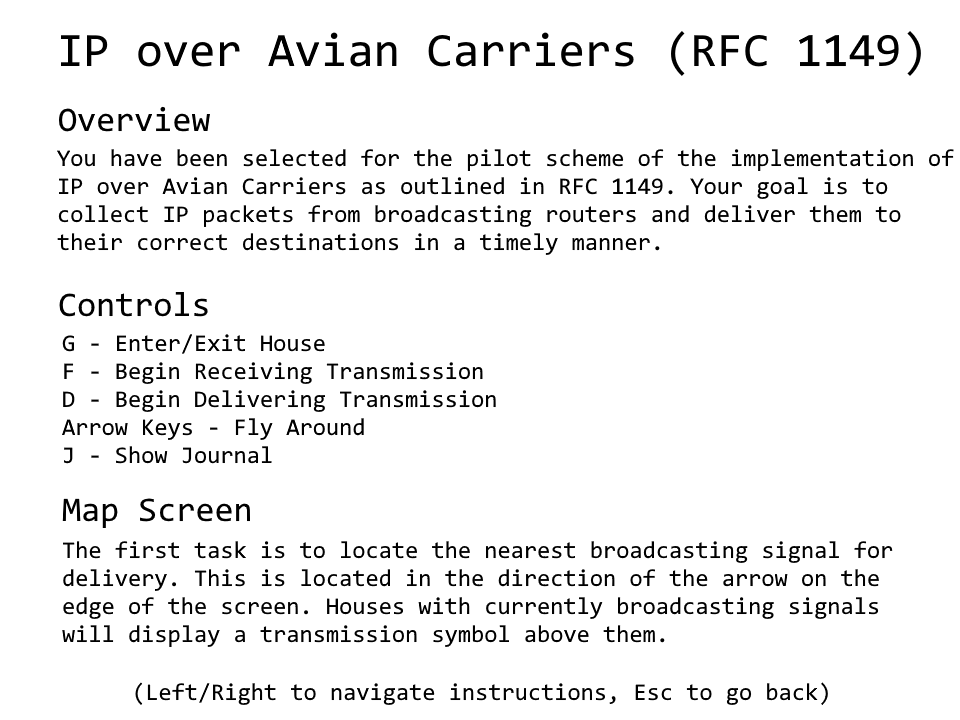
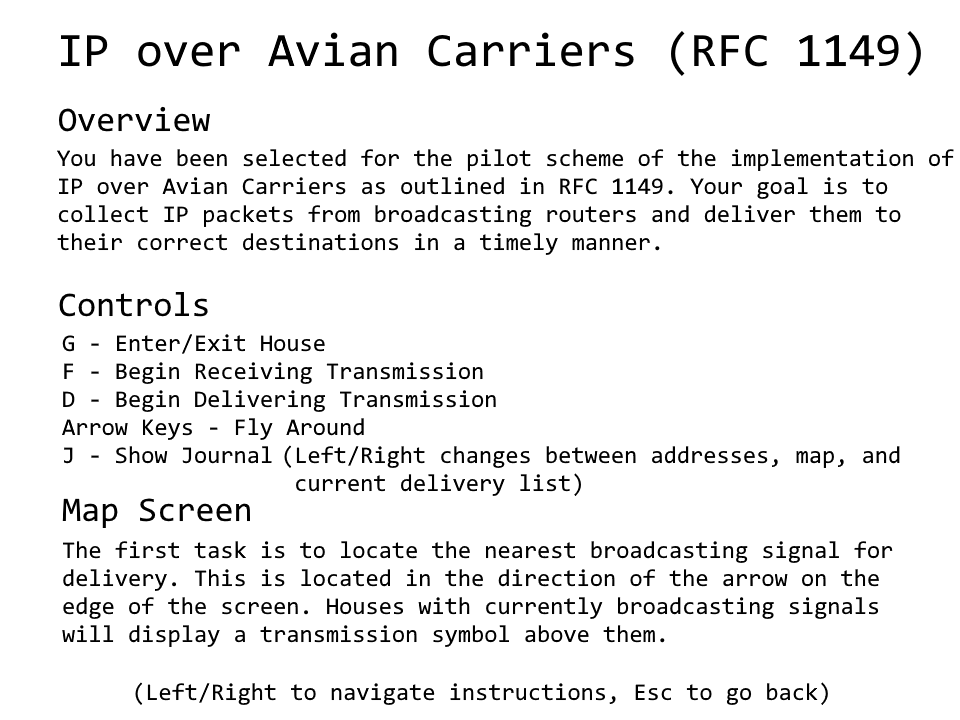
Changed keys

Changed region(s): [[0.2812, 0.6111, 0.875, 0.7028], [0.9062, 0.6111, 0.9375, 0.6417]]

diff --git a/state_house.py b/state_house.py
@@ -256,7 +256,7 @@ class HouseScreen:
                 if event.type == QUIT:
                     exit()
                 if event.type == KEYDOWN:
-                    if event.key == K_g:
+                    if event.key == K_f:
                         if not len(self.waiting_sounds):
                             if not self.transmission_received and self.house_obj.broadcast_status[0] and not self.is_in_receive:
                                 chan = self.start_receiving_transmission()

diff --git a/state_main.py b/state_main.py
@@ -321,7 +321,7 @@ class Game:
                         self.endgame(True)
                     if event.key == K_ESCAPE:
                         self.enteroptions()
-                    if event.key == K_w:
+                    if event.key == K_j:
                         self.enterjournal()
                 if event.type == self.transmission_event:
                     #print('THIS WORKED')
